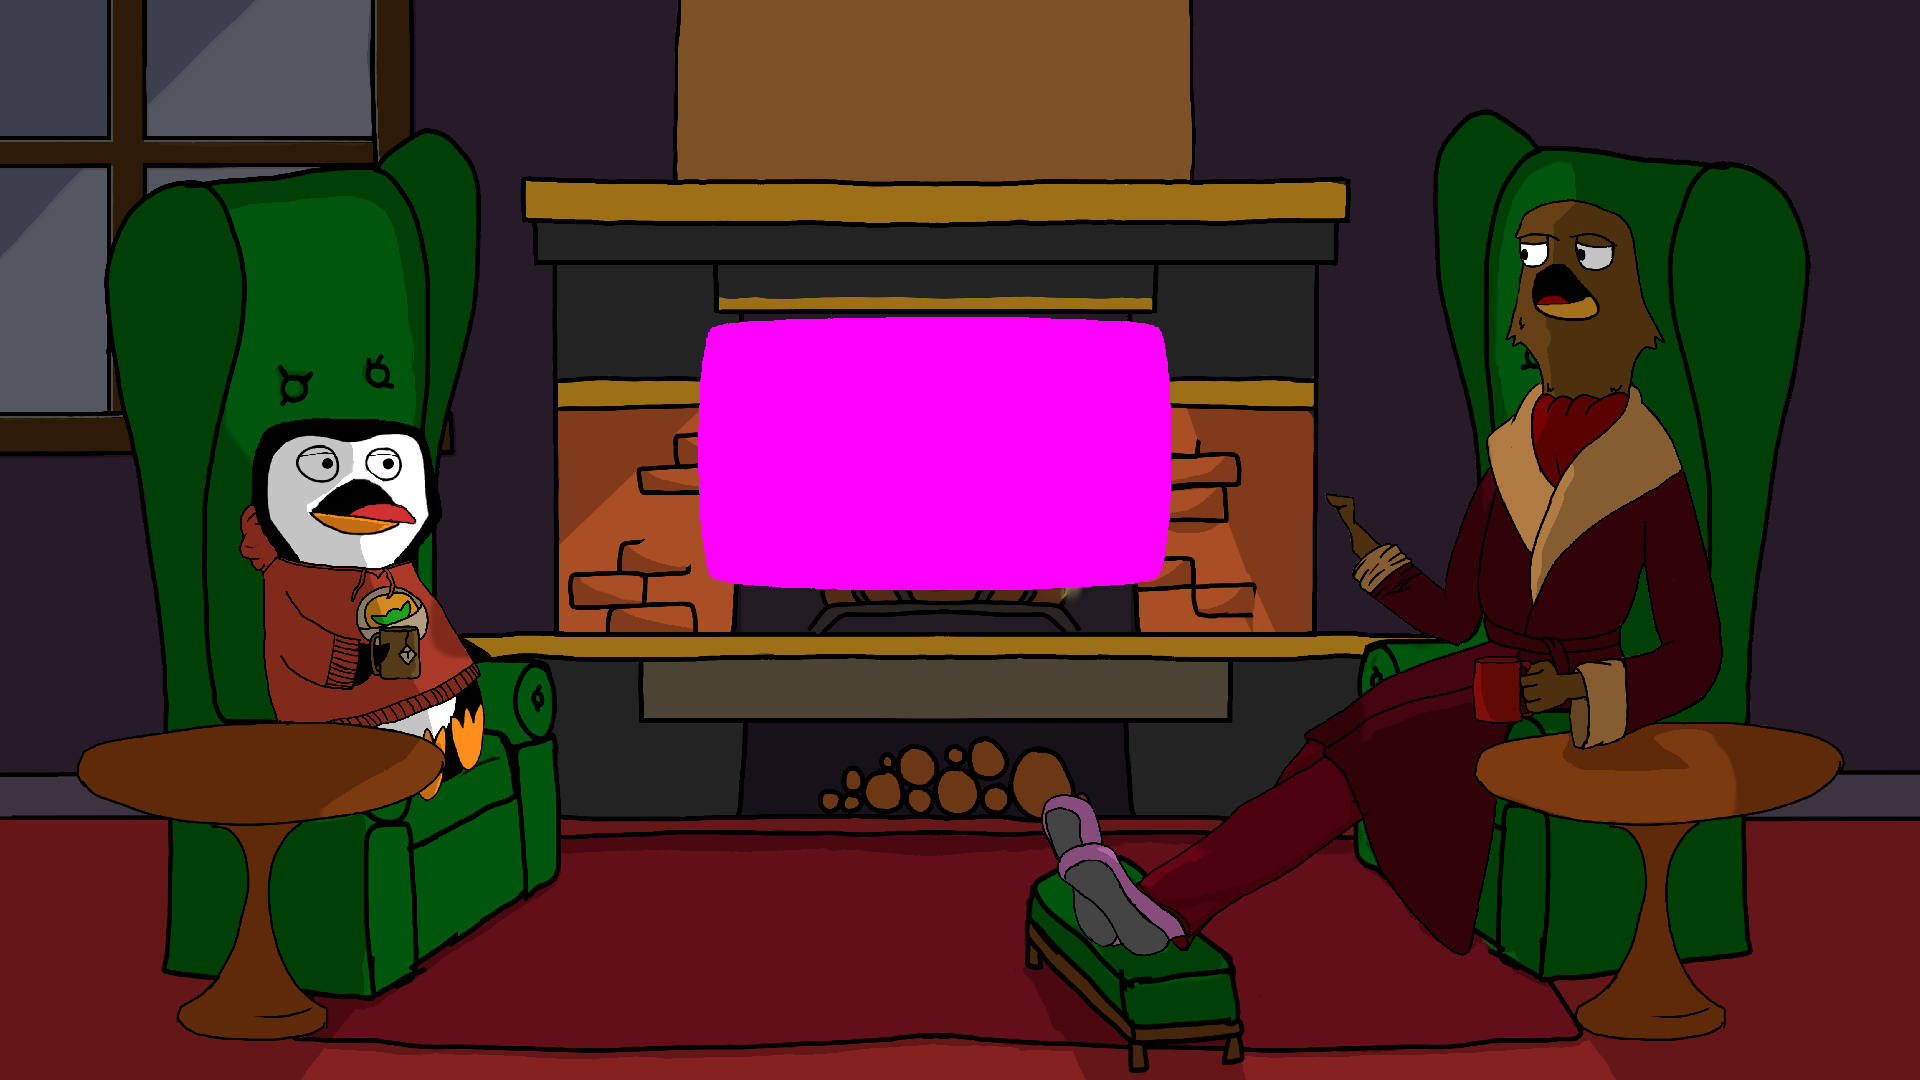
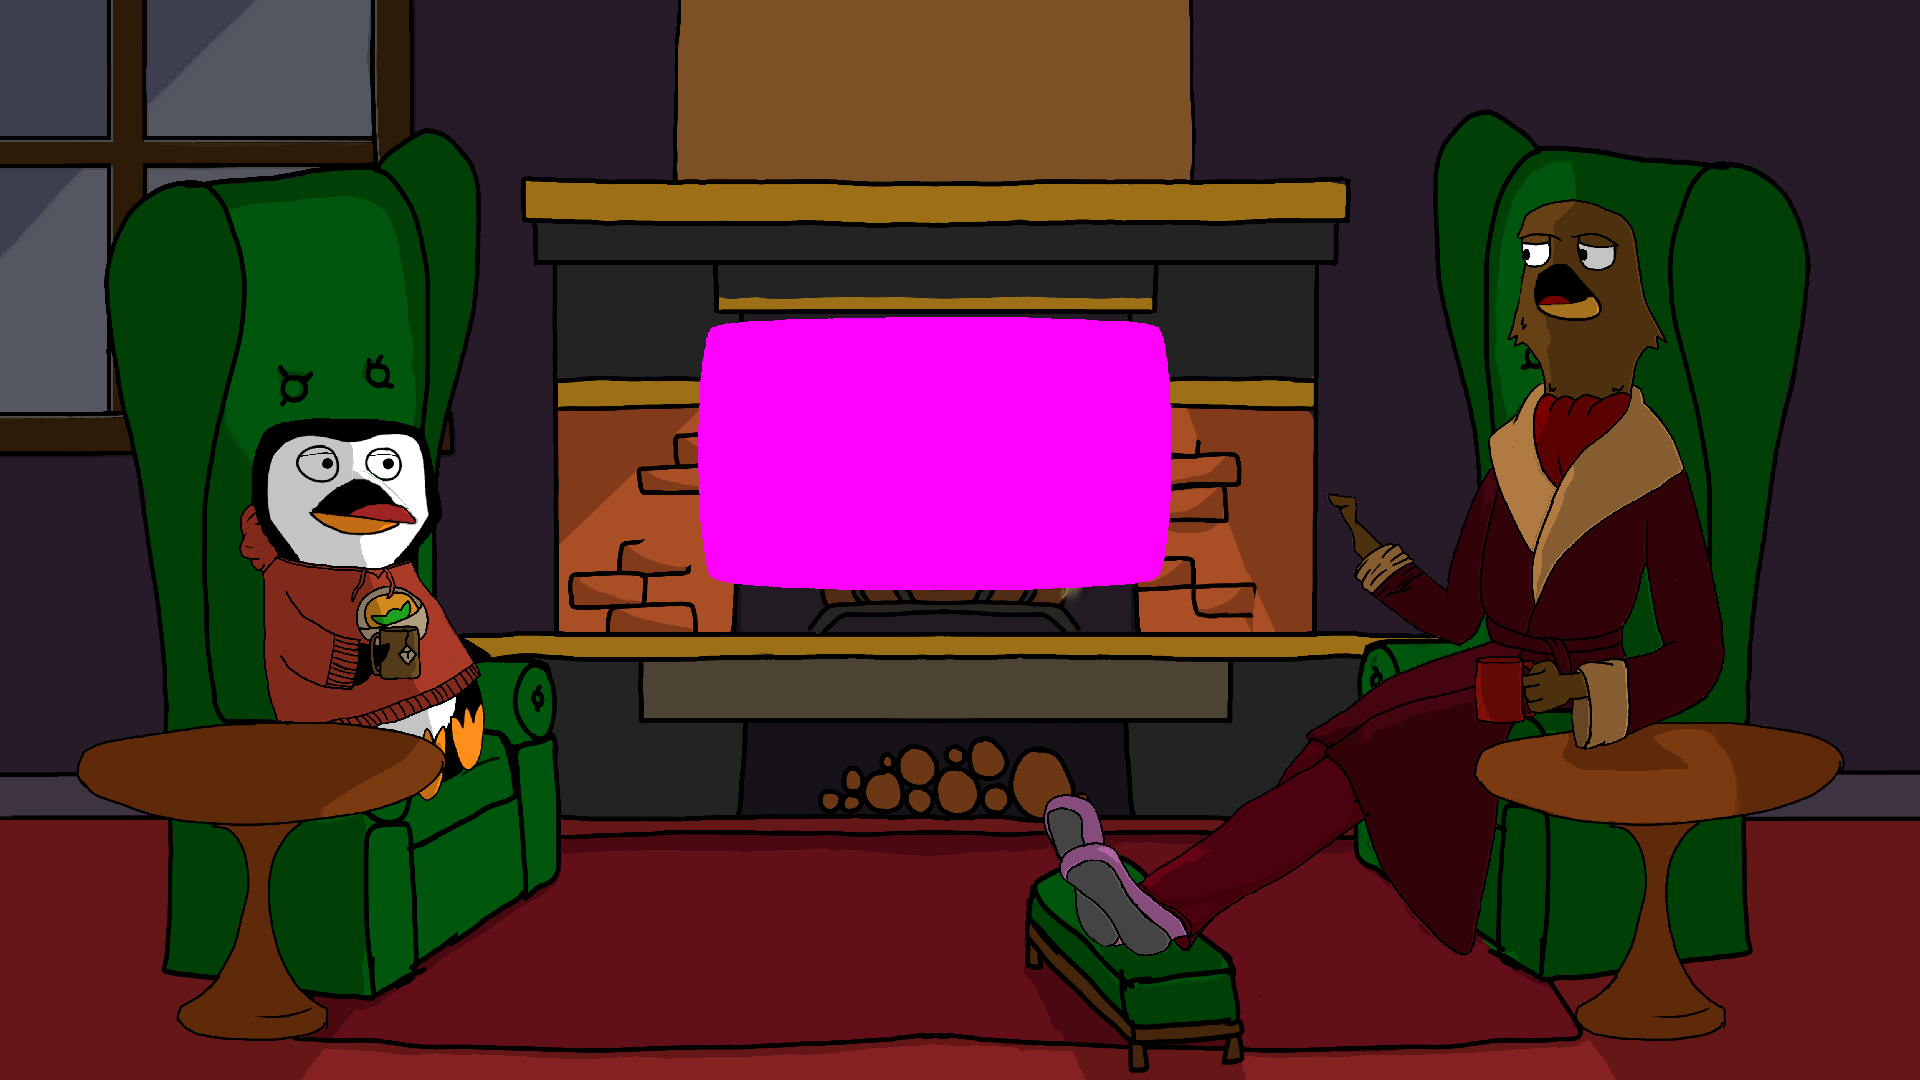
Render props conditional on speaker silence

diff --git a/src/stage/director.ts b/src/stage/director.ts
@@ -9,6 +9,7 @@ export function scriptFromTemplate(
     template: Template,
     customAssets: CustomVideoAsset[],
     frame: number, _frameTimeSec: number,
+    audioSplit?: Record<string, number[][]>,
     audioVolume?: Record<string, number>,
     prngs?: Record<string, Blinker>,
     frameW?: number, frameH?: number,
@@ -47,6 +48,14 @@ export function scriptFromTemplate(
 
     for (const head of template.heads) {
         const id = head.id;
+
+        if (id === 'pengwyn-gagged') {
+            console.log(audioSplit?.['pengwyn']?.length);
+            if (audioSplit?.['pengwyn'] && audioSplit?.['pengwyn']?.length > 0) {
+                // gag not needed
+                continue;
+            }
+        }
 
         const normX = (head.origin.x / canvasW); // XXX
         const normY = (head.origin.y / canvasH); // XXX
@@ -119,8 +128,8 @@ export function scriptFromTemplate(
             if (id === 'clock') {
                 const digitTemplate = template.extra.find(e => e.id === 'clock-digit');
                 if (digitTemplate) {
-                    const hours = currentDatetime.getHours().toString().padStart(2, '0');
-                    const mins = currentDatetime.getMinutes().toString().padStart(2, '0');
+                    const hours = currentDatetime.getUTCHours().toString().padStart(2, '0');
+                    const mins = currentDatetime.getUTCMinutes().toString().padStart(2, '0');
                     const digits = [...hours, ...mins,]
     
                     const normX = (digitTemplate.origin.x / canvasW); // XXX
@@ -146,7 +155,7 @@ export function scriptFromTemplate(
             else if (id === 'calander') {
                 const digitTemplate = template.extra.find(e => e.id === 'calander-digit');
                 if (digitTemplate) {
-                    const digits = currentDatetime.getDate().toString().padStart(2, '0').split('');
+                    const digits = currentDatetime.getUTCDate().toString().padStart(2, '0').split('');
 
                     const normX = (digitTemplate.origin.x / canvasW); // XXX
                     const normY = (digitTemplate.origin.y / canvasH); // XXX
@@ -351,7 +360,7 @@ export async function sceneFromTemplate(
         const script = scriptFromTemplate(
             template, customAssets,
             i + 1, frameTimeSec,
-            filteredVolumesPerFrame[i] ?? undefined,
+            audioSplit, filteredVolumesPerFrame[i] ?? undefined,
             prngs,
             frameW, frameH,
             datetime,

diff --git a/src/App.tsx b/src/App.tsx
@@ -36,7 +36,8 @@ function App() {
             width: 1920,
             durationSec: 28,
             audioSampleRate: 48000,
-            datetime: new Date(Date.UTC(2023, 5, 7, 22, 58, 49)),
+            datetime: new Date(Date.UTC(2023, 5, 7, 23, 59, 54)),
+            // datetime: new Date(Date.UTC(2023, 5, 7, 22, 58, 54)),
         });
     }, []);
 
@@ -60,19 +61,16 @@ function App() {
     useMemo(() => {
         if (template && videoData)  {
             generatePreviewFrame();
+            if (audioData && audioSplit)  {
+                sceneFromTemplate(template, [videoData], audioData, audioSplit)
+                    .then(scene => setScene(scene));
+            }
         }
-    }, [template, videoData]);
-
-    useMemo(() => {
-        if (template && videoData && audioData && audioSplit)  {
-            sceneFromTemplate(template, [videoData], audioData, audioSplit)
-                .then(scene => setScene(scene));
-        }
-    }, [template, videoData, audioSplit]);
+    }, [template, videoData, audioData, audioSplit]);
 
     async function generatePreviewFrame() {
         if (videoData) {
-            const scene = await sceneFromTemplate(template, [videoData], null, {});
+            const scene = await sceneFromTemplate(template, [videoData], audioData, audioSplit);
             const singleFrameScene: Scene = { ...scene, frames: [scene.frames[0]] };
             const render = await invoke('renderFrame', { payload: singleFrameScene });
             setFrames([render as string]);

diff --git a/src/data/testplate.ts b/src/data/testplate.ts
@@ -30,6 +30,20 @@ export const testplate: Template = {
             compositeType: 'paste',
         },
         {
+            id: 'pengwyn-gagged',
+            sprites: [
+                '/assets/pengwyn_gag.png',
+            ],
+            width: 247,
+            height: 43,
+            origin: {
+                x: 247,
+                y: 494,
+            },
+            propType: 'image',
+            compositeType: 'overlay',
+        },
+        {
             id: 'pengwyn',
             sprites: [
                 '/assets/pengwynbeak.png',

diff --git a/src/Template.ts b/src/Template.ts
@@ -16,6 +16,7 @@ export interface Template {
     heads: FixedAsset[];
     others: FixedAsset[];
     video: CustomAsset;
+    extra: FixedAsset[];
 }
 
 export interface FixedAsset {
